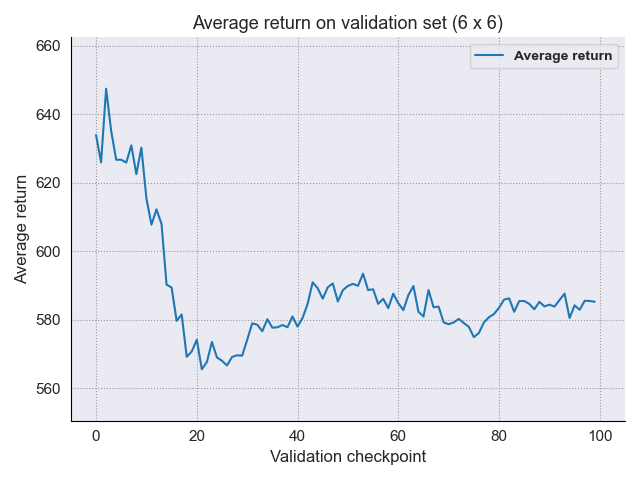
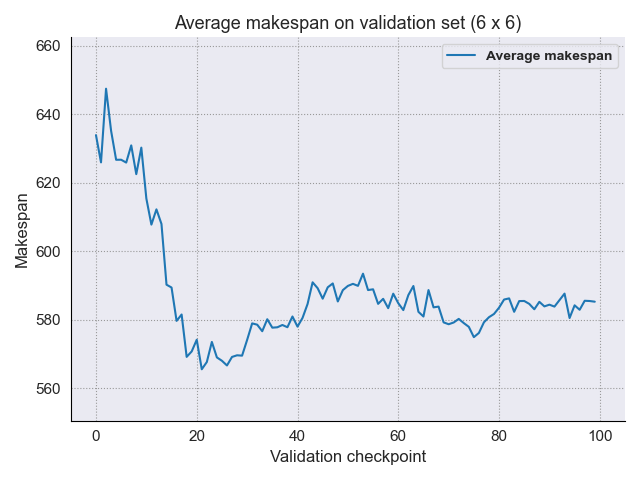
Correct plot labels and titles

Changed region(s): [[0.25, 0.0312, 0.8125, 0.0625], [0.0, 0.375, 0.0625, 0.5938], [0.6875, 0.0938, 0.9688, 0.125]]

diff --git a/plot.py b/plot.py
@@ -18,14 +18,14 @@ def plot_log(input_data, n_j, n_m, smooth_factor, save, show):
     plt.clf()
     ax = fig.gca()
     data_smooth = pd.Series(data_list).rolling(smooth_factor, min_periods=1).mean()
-    sns.lineplot(data=data_list, ci=95, label='Raw return', alpha=0.2)
-    sns.lineplot(data=data_smooth, label='Smoothened return')
+    sns.lineplot(data=data_list, ci=95, label='Raw makespan', alpha=0.2)
+    sns.lineplot(data=data_smooth, label='Smoothened makespan')
     plt.xlim([-100, len(data_list) + 100])
     plt.ylim([data_smooth.min() - 5, data_smooth.max() + 5])
     plt.xlabel('Training Episodes', fontsize=12)
-    plt.ylabel('Average return', fontsize=12)
+    plt.ylabel('Makespan', fontsize=12)
     lgd = plt.legend(frameon=True, fancybox=True, prop={'weight': 'bold', 'size': 10}, loc="best")
-    plt.title(f'Average return during training ({n_j} x {n_m})', fontsize=13)
+    plt.title(f'Average makespan during training ({n_j} x {n_m})', fontsize=13)
     ax = plt.gca()
 
     plt.setp(ax.get_xticklabels(), fontsize=11)
@@ -50,13 +50,13 @@ def plot_val(input_data, n_j, n_m, save, show):
     fig = plt.figure()
     plt.clf()
     ax = fig.gca()
-    sns.lineplot(data=data_list, ci=95, label='Average return')
+    sns.lineplot(data=data_list, ci=95, label='Average makespan')
     plt.xlim([-5, len(data_list) + 5])
     plt.ylim([min(data_list) - 15, max(data_list) + 15])
     plt.xlabel('Validation checkpoint', fontsize=12)
-    plt.ylabel('Average return', fontsize=12)
+    plt.ylabel('Makespan', fontsize=12)
     lgd = plt.legend(frameon=True, fancybox=True, prop={'weight': 'bold', 'size': 10}, loc="best")
-    plt.title(f'Average return on validation set ({n_j} x {n_m})', fontsize=13)
+    plt.title(f'Average makespan on validation set ({n_j} x {n_m})', fontsize=13)
     ax = plt.gca()
 
     plt.setp(ax.get_xticklabels(), fontsize=11)
@@ -73,7 +73,7 @@ def plot_val(input_data, n_j, n_m, save, show):
 
 if __name__ == '__main__':
     # plot parameters
-    show = True
+    show = False
     save = True
     # problem params
     n_j = 15
@@ -82,7 +82,7 @@ if __name__ == '__main__':
     h = 99
     smooth_factor = 200
     run_type = "L2D"
-    datatype = 'log'  # 'vali', 'log'
+    datatype = 'vali'  # 'vali', 'log'
 
     f = open('./run_results/{}s/{}_{}_{}_{}_{}_{}.txt'.format(datatype, run_type, datatype, n_j, n_m, l, h),
              'r').readline()
